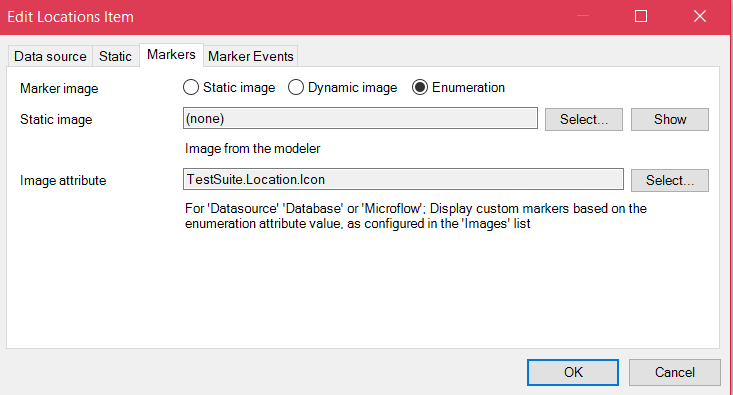
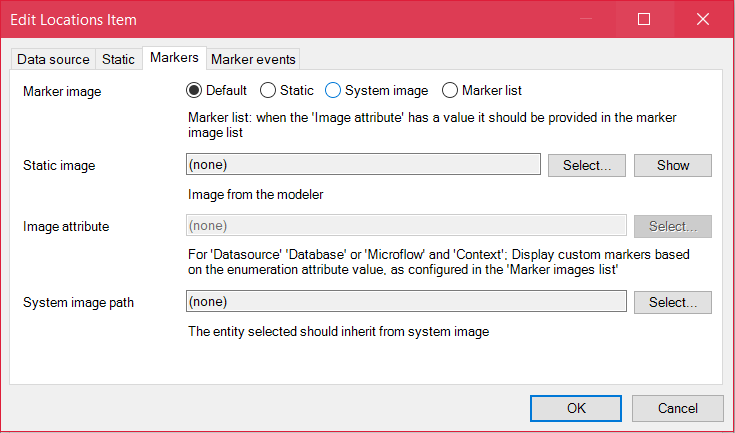
Add system image documentation

diff --git a/README.md b/README.md
@@ -2,7 +2,7 @@
 [![Dependency Status](https://david-dm.org/mendixlabs/google-maps.svg)](https://david-dm.org/mendixlabs/google-maps)
 [![Dev Dependency Status](https://david-dm.org/mendixlabs/google-maps.svg#info=devDependencies)](https://david-dm.org/mendixlabs/google-maps#info=devDependencies)
 [![codecov](https://codecov.io/gh/mendixlabs/google-maps/branch/master/graph/badge.svg)](https://codecov.io/gh/mendixlabs/google-maps)
-![badge](https://img.shields.io/badge/mendix-7.9.0-green.svg)
+![badge](https://img.shields.io/badge/mendix-7.18.0-green.svg)
 
 # Maps
 * Show locations on maps
@@ -34,7 +34,7 @@ the specified custom markers else it will use the widget bundled marker.
 [Here maps](https://www.here.com/)  
 [Google maps](https://cloud.google.com/maps-platform/)
 * The Google maps widget uses [Google Maps API v3](https://developers.google.com/maps/). So the [Limitations](https://developers.google.com/maps/premium/usage-limits)
-from Google apply, especially for geocoding. We even advise geocoding your locations within your Mendix application and store them for later use as coordinates on the widget.
+from Google apply.
 
 ## Dependencies
 Mendix 7.18.0
@@ -53,20 +53,21 @@ For **Google maps (deprecated)**, see [Google maps](Googlemaps.md)
 
 [https://leafletmaps.mxapps.io/](https://leafletmaps.mxapps.io/)
 
-![Running leaflet maps widget](/assets/maps-google.png)
+![Running google maps widget](/assets/maps-google.png)
 
 ## Usage
 - To add basic a map to your application select **new** under the **Map properties** tab
-- Select data source **context** under the **Data source** tab
+- Under the **Data source** tab Select data source **context**
 - Select the **Locations entity**, **latitude** and **longitude** attributes
 - Under the **Map properties** tab, select a **Map provider**
 - Add Access token if **Map provider** is not **Open street**
 - Run the application and add some locations
+- For **Here maps** add **app ID, app code** respectively.
 
 ![Locations](/assets/maps-locations.png)
 ### Data source: Static
 - On the **Map properties** tab, select **new** on the **locations** option
-- Select **Static** under **Data source**
+- Under **Data source** tab, Select **Static**
 - On the **Static** tab add new static locations
 
 ![static](/assets/maps-static.png)
@@ -79,12 +80,14 @@ For **Google maps (deprecated)**, see [Google maps](Googlemaps.md)
 
 ### Custom Markers
 -  It is used to configure how the marker icon should be look.
-- Select the **Markers** tab under **locations** option on the **Map properties** tab
-- For the **static image** option, upload a static image
-- For Dynamic marker images, upload an image into the database to view the map during runtime
-- Markers can also be created based on enumeration. An enumeration containing the name and caption of the markers should be created within your project and that enumeration assigned to the `Locations entity`.  
+- Under **locations** option on the **Map properties** tab, select the **Markers** tab 
+- For the **Default** option, the widget bundled marker will be displayed
+- For the **Static** option, upload a static image
+- For the **System image** option, add a **system image path**, which is a reference to the locations enity. The entity selected should inherit from **System.Image** otherwise it will display an error.
+- Upload an image into the database to view the **system image** marker at runtime
+- Markers can also be created based on enumeration. Select the **Marker list** option, then add an enumeration containing the name and caption of the markers to your project and assign that enumeration to the `Locations entity`.  
 ![Markers](/assets/maps-markers.png)  
-From the `Marker Images` tab, the enumeration key and image is then specified under `Images`  
+From the `Marker image list` tab, the enumeration key and image is then specified under `Images`  
 ![Enumeration markers](/assets/markers.png)
 
 ## Issues, suggestions and feature requests
